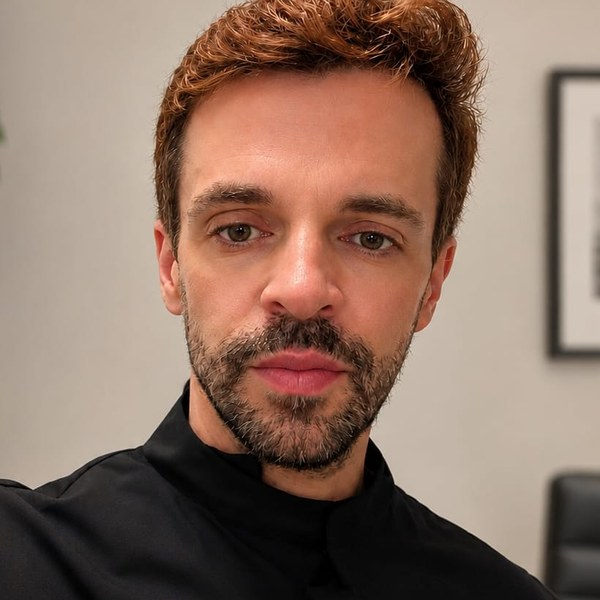
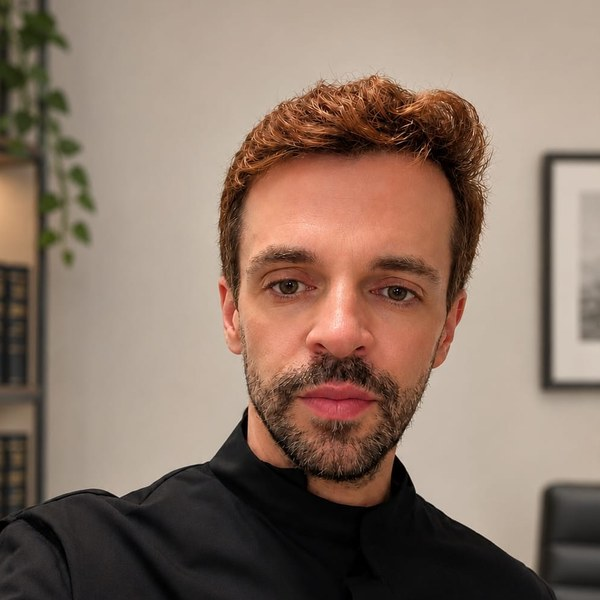
Equipa: recorte das fotos com a cabeça inteira
Claude-Session: https://claude.ai/code/session_011GuU4FWcGt2gAwoDV6aCC4

diff --git a/index.html b/index.html
@@ -309,8 +309,8 @@
           <div class="grupo" data-reveal>
             <p class="grupo__titulo" data-i18n="eq.g2">Advogados</p>
             <ul class="grupo__lista">
-              <li class="membro"><img src="img/avatar-andreia.jpg" alt="Andreia Tavares Pinho, advogada" width="300" height="300" loading="lazy"><div><h3>Andreia Tavares Pinho</h3><p data-i18n="eq.r2">Advogada</p></div></li>
-              <li class="membro"><img src="img/avatar-luis.jpg" alt="Luís Paulo Reis, advogado estagiário" width="300" height="300" loading="lazy"><div><h3>Luís Paulo Reis</h3><p data-i18n="eq.r3">Advogado estagiário</p></div></li>
+              <li class="membro"><img src="img/avatar-andreia.jpg?v=2" alt="Andreia Tavares Pinho, advogada" width="300" height="300" loading="lazy"><div><h3>Andreia Tavares Pinho</h3><p data-i18n="eq.r2">Advogada</p></div></li>
+              <li class="membro"><img src="img/avatar-luis.jpg?v=2" alt="Luís Paulo Reis, advogado estagiário" width="300" height="300" loading="lazy"><div><h3>Luís Paulo Reis</h3><p data-i18n="eq.r3">Advogado estagiário</p></div></li>
             </ul>
           </div>
         </div>
